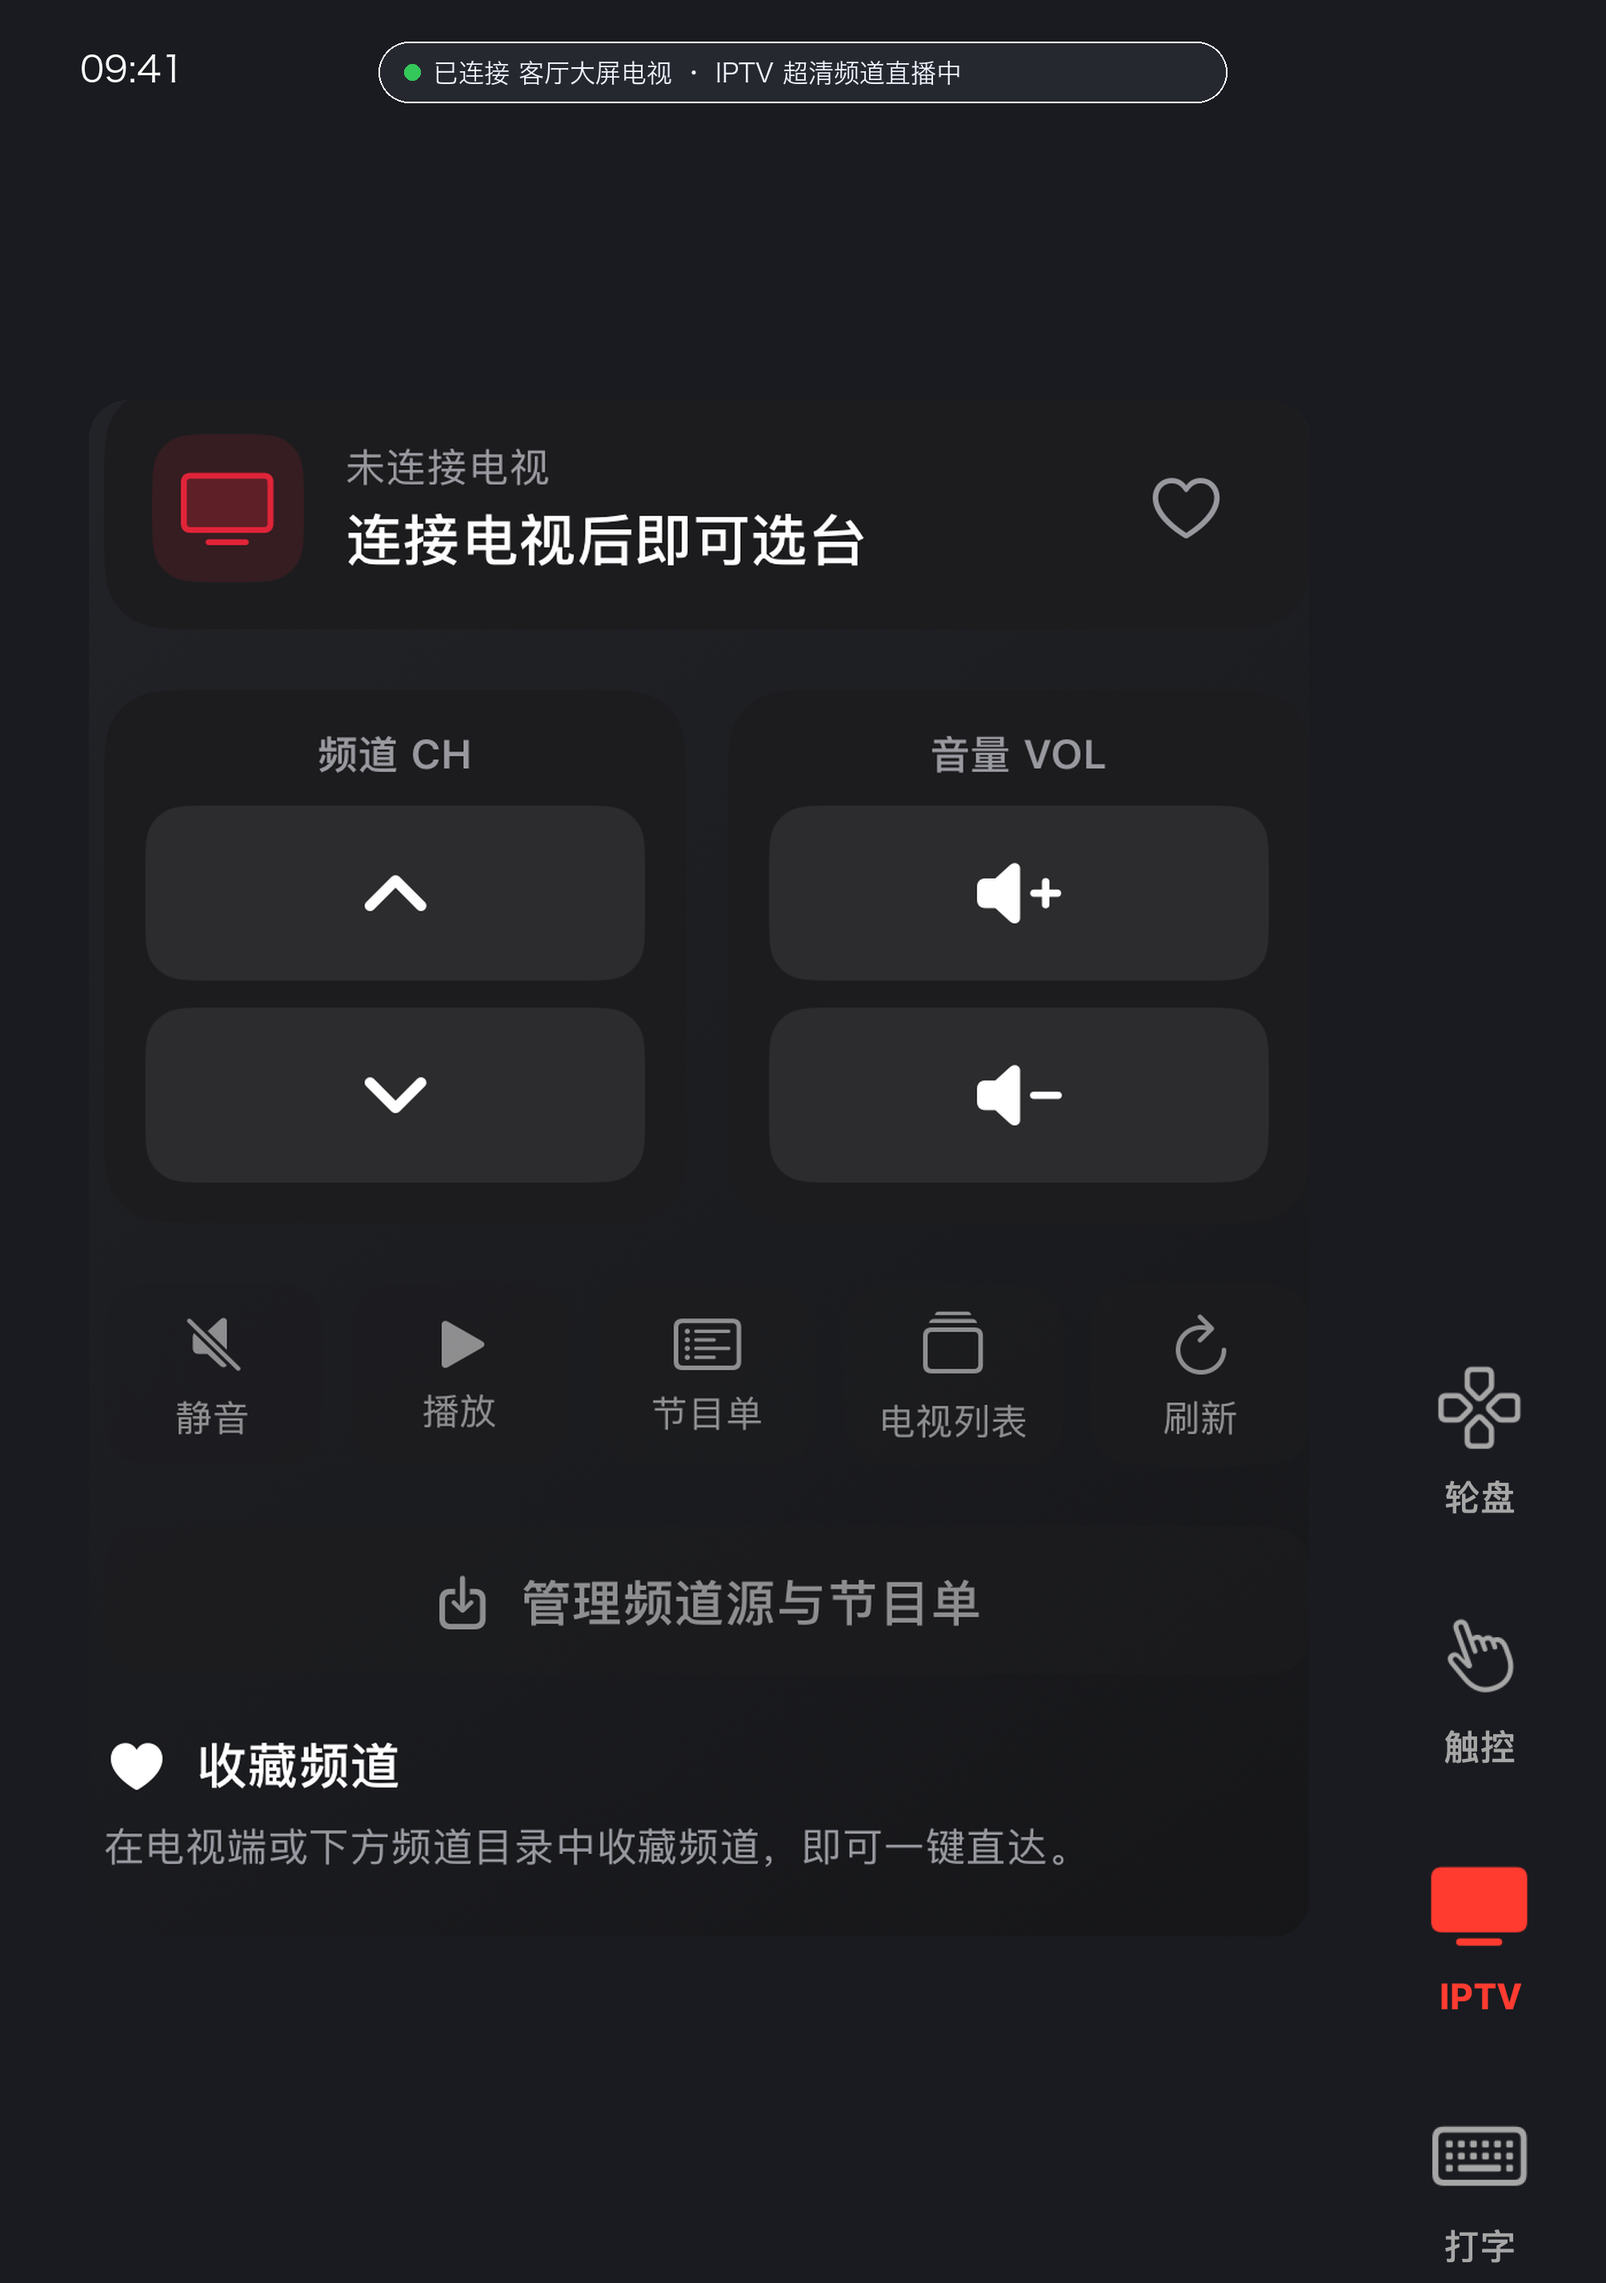
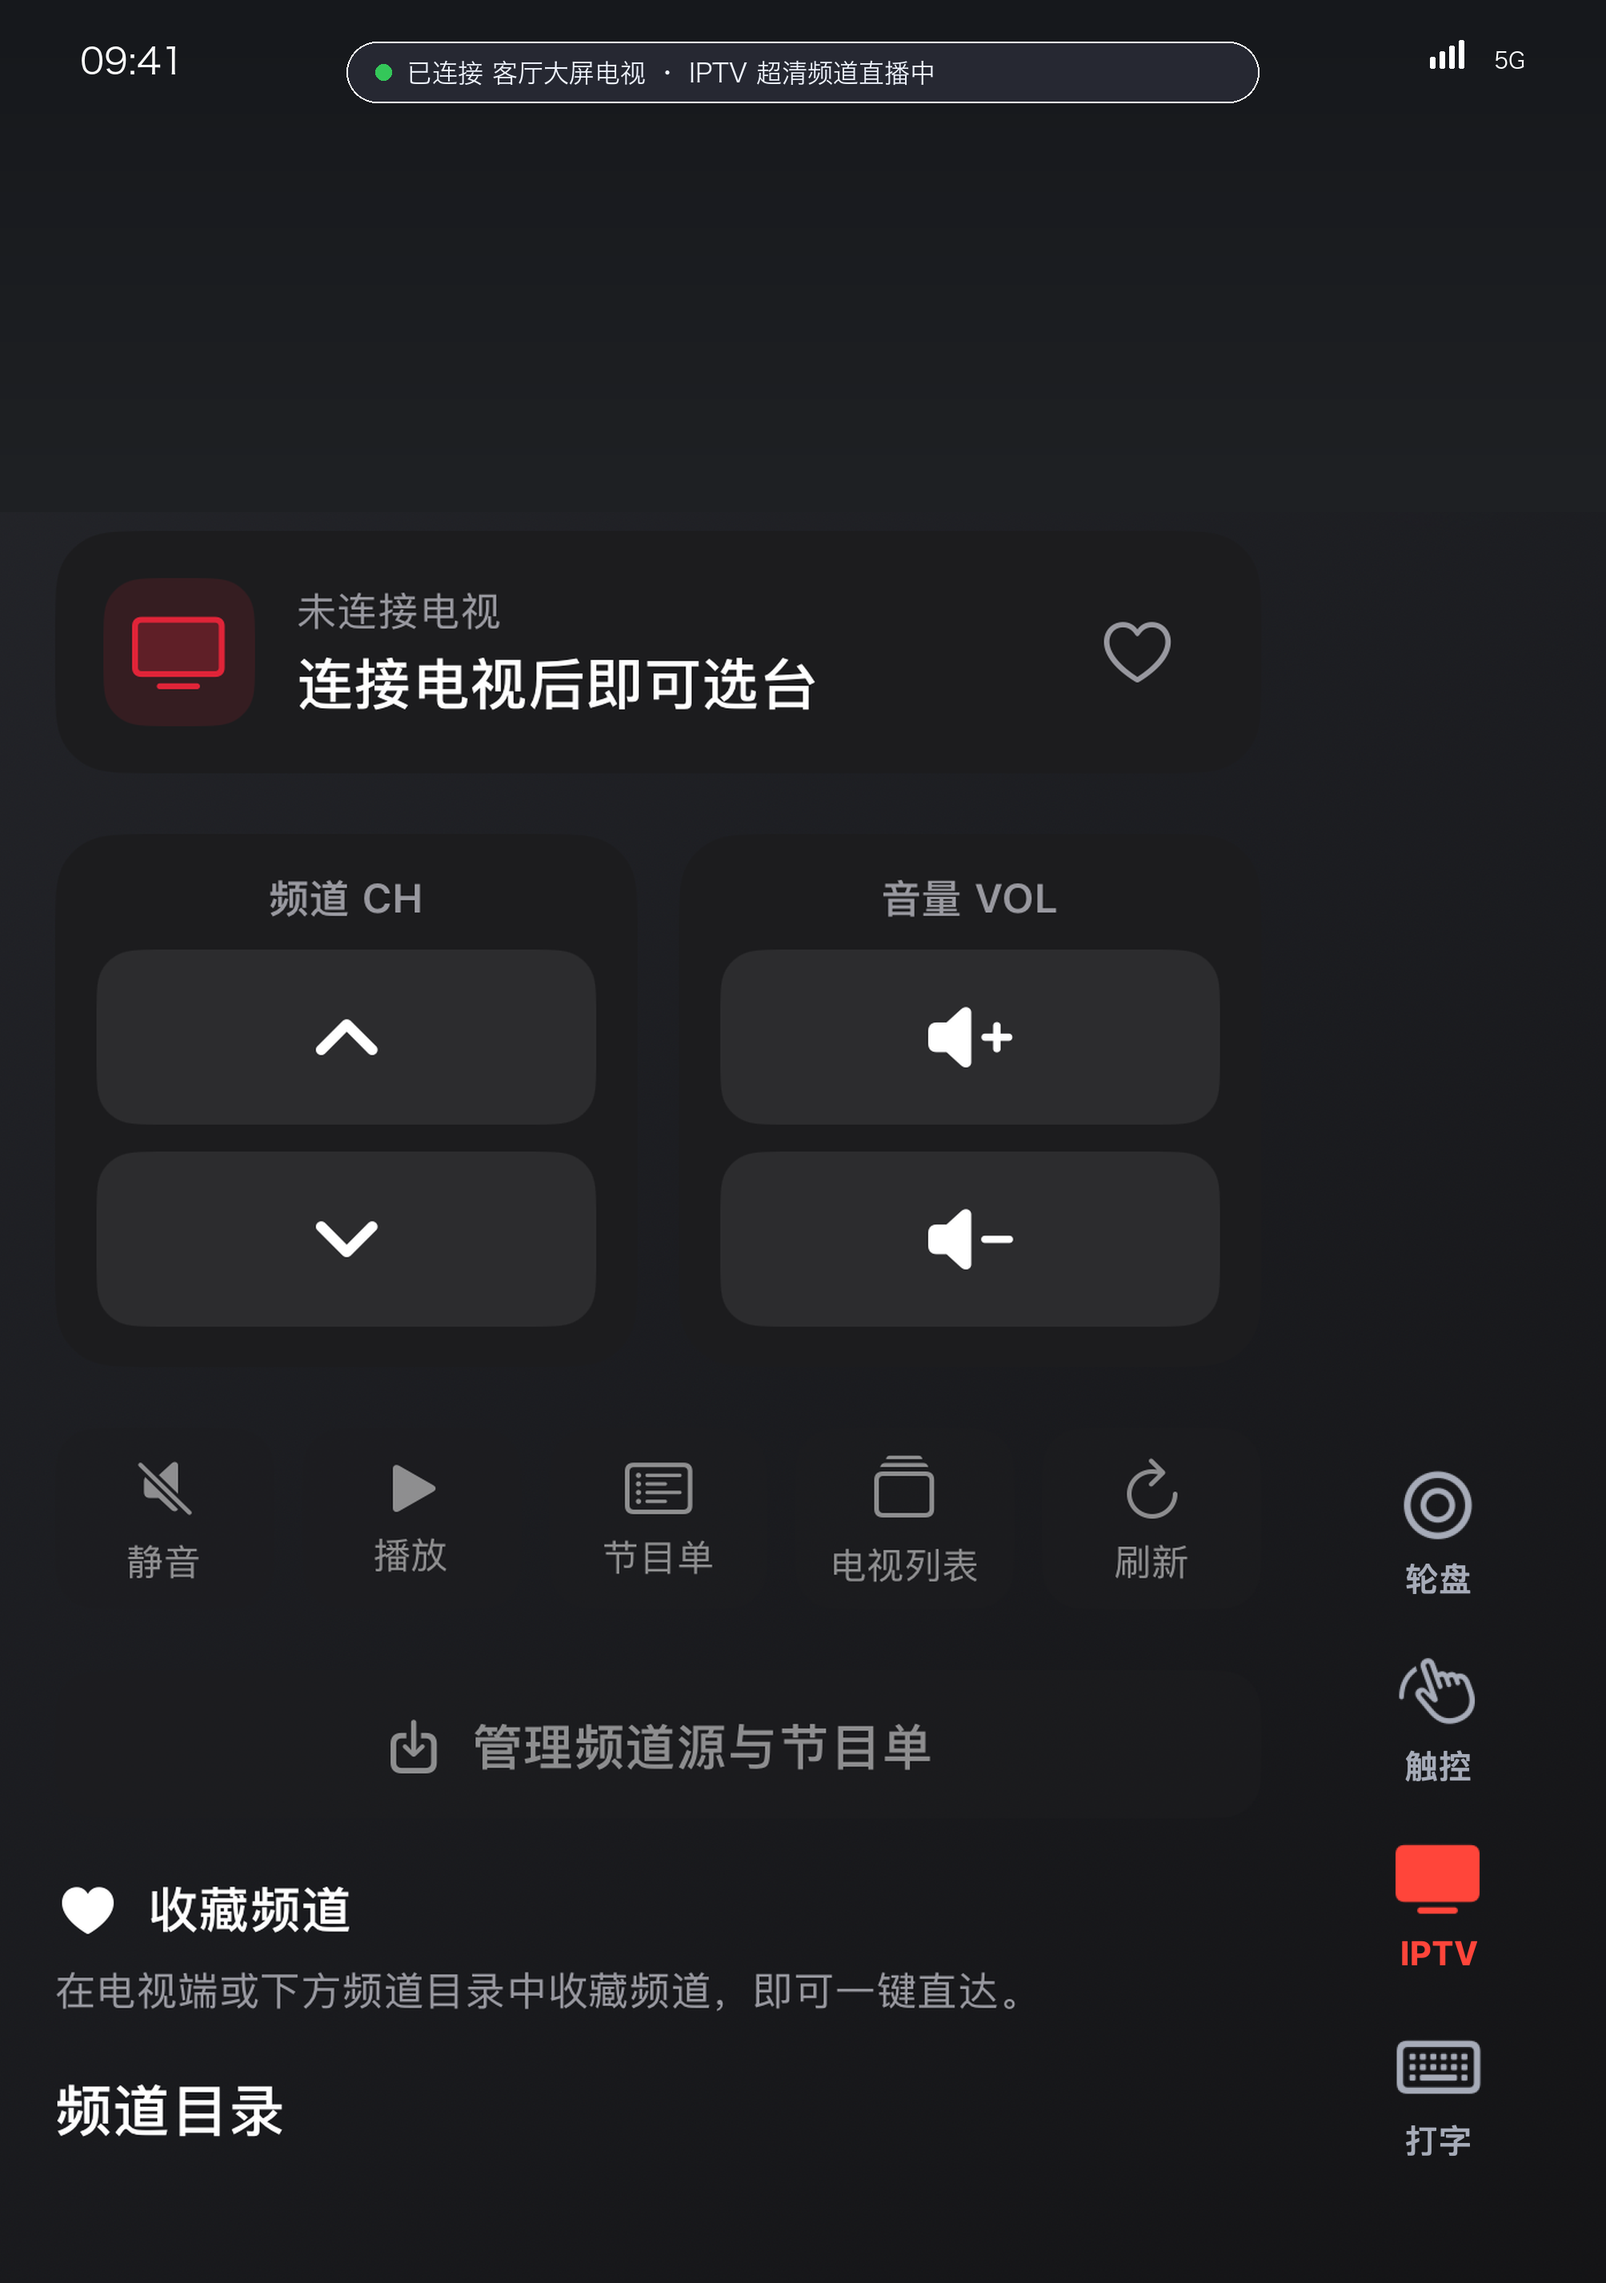
style(duo): refine foldable sidebar and clean unfolding screens to native Apple perfection

diff --git a/HSBWatchApp/HSBWatchCompanion/ModernUI/Components/DuoTrailingSidebarView.swift b/HSBWatchApp/HSBWatchCompanion/ModernUI/Components/DuoTrailingSidebarView.swift
@@ -23,10 +23,10 @@ struct DuoTrailingSidebarView: View {
     private let lightHaptic = UIImpactFeedbackGenerator(style: .light)
     
     var body: some View {
-        VStack(spacing: 22) {
-            // 按钮 1: 轮盘遥控模式 (D-Pad)
+        VStack(spacing: 14) {
+            // 按钮 1: 轮盘遥控模式 (官方质感同心圆环轮盘)
             flatActionButton(
-                icon: (selectedMainTab == 0 && selectedControlTab == 0) ? "dpad.fill" : "dpad",
+                icon: (selectedMainTab == 0 && selectedControlTab == 0) ? "circle.circle.fill" : "circle.circle",
                 label: "轮盘",
                 isSelected: (selectedMainTab == 0 && selectedControlTab == 0)
             ) {
@@ -34,9 +34,9 @@ struct DuoTrailingSidebarView: View {
                 selectedControlTab = 0
             }
             
-            // 按钮 2: 无线触控板模式 (Touchpad)
+            // 按钮 2: 无线触控板模式 (流线滑动触控)
             flatActionButton(
-                icon: (selectedMainTab == 0 && selectedControlTab == 1) ? "hand.point.up.left.fill" : "hand.point.up.left",
+                icon: (selectedMainTab == 0 && selectedControlTab == 1) ? "hand.draw.fill" : "hand.draw",
                 label: "触控",
                 isSelected: (selectedMainTab == 0 && selectedControlTab == 1)
             ) {
@@ -106,21 +106,21 @@ struct DuoTrailingSidebarView: View {
         .buttonStyle(FlatPressButtonStyle())
     }
     
-    /// 纯扁平内容视图：大图标 + 清晰大文字（绝不压缩截断为点），无背景框
+    /// 纯扁平内容视图：极简优雅图标 + 呼吸感圆润字标，无任何多余背景框
     private func flatButtonContent(icon: String, label: String, isSelected: Bool) -> some View {
-        VStack(spacing: 5) {
+        VStack(spacing: 3) {
             Image(systemName: icon)
-                .font(.system(size: 26, weight: isSelected ? .semibold : .regular))
-                .foregroundColor(isSelected ? Color.tanghuluAccentRed : Color.secondary)
+                .font(.system(size: 23, weight: isSelected ? .semibold : .regular))
+                .foregroundColor(isSelected ? Color.tanghuluAccentRed : Color.white.opacity(0.48))
             
             Text(label)
-                .font(.system(size: 13, weight: isSelected ? .bold : .medium, design: .rounded))
-                .foregroundColor(isSelected ? Color.tanghuluAccentRed : Color.secondary)
+                .font(.system(size: 12, weight: isSelected ? .semibold : .medium, design: .rounded))
+                .foregroundColor(isSelected ? Color.tanghuluAccentRed : Color.white.opacity(0.48))
                 .lineLimit(1)
                 .fixedSize(horizontal: true, vertical: false)
         }
-        .frame(width: 66, height: 58)
-        .contentShape(Rectangle()) // 充足热区
+        .frame(width: 58, height: 50)
+        .contentShape(Rectangle()) // 充足黄金热区
     }
     
     private var isExtraModeActive: Bool {
